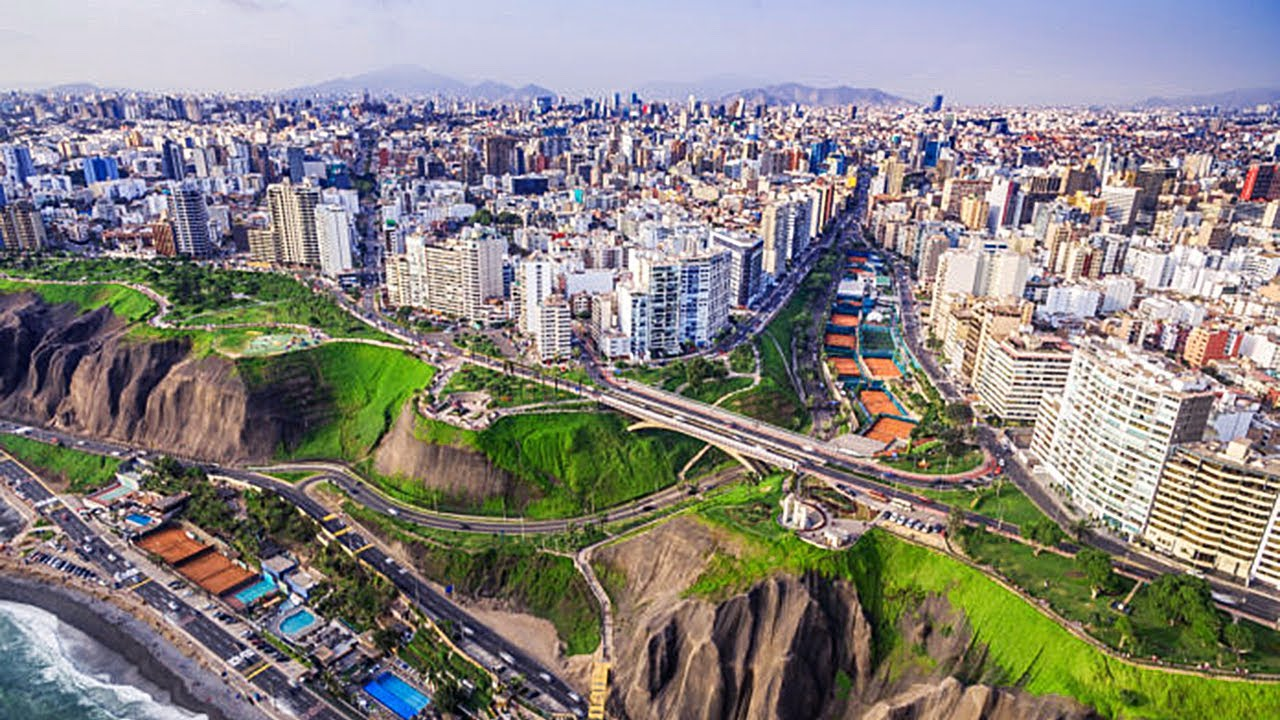
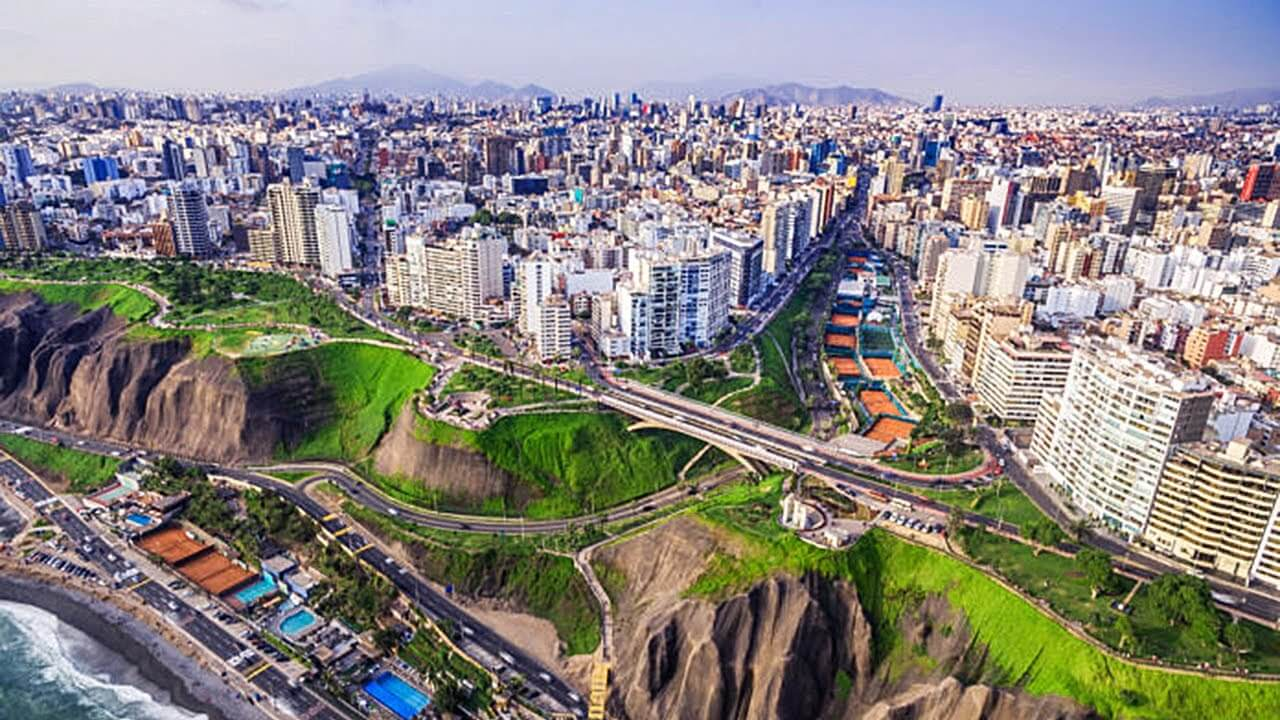
Lesson 06 changes added

Changed region(s): [[0.6875, 0.4889, 0.7188, 0.5194]]

diff --git a/chamber/css/base.css b/chamber/css/base.css
@@ -98,19 +98,41 @@ button {
 }
 
 .hero {
-    background-image: url('../images/lima-city.jpg');
+    position: relative;
+}
+
+.hero picture {
+    display: flex;
+    align-items: center;
+    justify-content: center;
+    height: 100%;
+    overflow: hidden;
+}
+
+.hero img {
+    width: 100%;
+    object-fit: cover;
+}
+
+ /* .hero {
+ background-image: url('../images/lima-city.jpg');
     padding: 0;
-    border: none;
     background-color: transparent;
     background-position: center;
     background-repeat: no-repeat;
     background-size: cover;
     border: none;
+} */
+
+.hero div {
+    position: absolute;
+    top: 50%;
+    left: 50%;
+    transform: translate(-50%, -50%);
 }
 
 .hero h1 {
-    margin-top: 2em;
-    font-size: 1.7em;
+    font-size: 1.6em;
     color: #FFF;
     text-align: center;
     background-color: rgba(0, 0, 0, 0.7);

diff --git a/chamber/index.html b/chamber/index.html
@@ -37,8 +37,15 @@
     </header>
     <main>
         <div class="container hero">
-            <h1>Welcome to Lima</h1>
-            <button>Join the Chamber</button>
+            <picture>
+                <source media="(max-width: 480px)" srcset="images/wdd230-org-small.jpg">
+                <source media="(max-width: 750px)" srcset="images/wdd230-org-medium.jpg">
+                <img src="images/wdd230-org-large.jpg" alt="background image">
+            </picture>
+            <div>
+                <h1>Welcome to Lima</h1>
+                <button>Join the Chamber</button>
+            </div>
         </div>
         <div class="container event">
             <h2>Ribbon Cutting</h2>

diff --git a/chamber/css/large.css b/chamber/css/large.css
@@ -33,7 +33,11 @@
     }
 
     .hero h1 {
-        font-size: 2.5em;
+        font-size: 1.9em;
+    }
+
+    .hero img {
+        width: auto;
     }
 
     .event {
